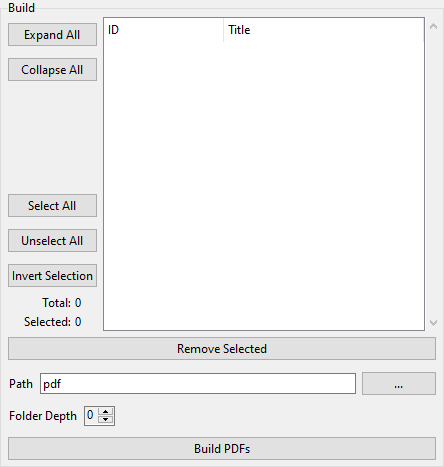
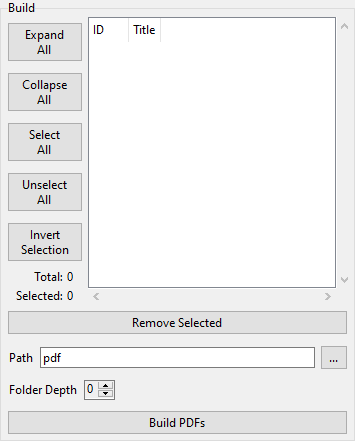
Line wrap GUI test list button text to reduce window width.

diff --git a/atform/gui/testlist.py b/atform/gui/testlist.py
@@ -307,20 +307,20 @@ class ControlPanel(tkwidget.Frame):  # pylint: disable=too-many-ancestors
         super().__init__(testlist)
         self.testlist = testlist
 
-        self._add_button("Expand All", tk.TOP)
-        self._add_button("Collapse All", tk.TOP)
+        self._add_button("Expand\nAll", tk.TOP)
+        self._add_button("Collapse\nAll", tk.TOP)
 
         self.counts = Counts(self, testlist)
         self.counts.pack(side=tk.BOTTOM)
 
-        self._add_button("Invert Selection", tk.BOTTOM)
-        self._add_button("Unselect All", tk.BOTTOM)
-        self._add_button("Select All", tk.BOTTOM)
+        self._add_button("Invert\nSelection", tk.BOTTOM)
+        self._add_button("Unselect\nAll", tk.BOTTOM)
+        self._add_button("Select\nAll", tk.BOTTOM)
 
     def _add_button(self, text, side):
         """Creates a single button."""
         # Convert the button text to snake case to match a method name.
-        snake = text.lower().replace(" ", "_")
+        snake = text.lower().replace("\n", "_")
         func = getattr(self, f"_on_{snake}")
 
         btn = tkwidget.Button(

diff --git a/atform/gui/app.py b/atform/gui/app.py
@@ -1,6 +1,7 @@
 """This module contains the entry point for the GUI and top-level window."""
 
 import tkinter as tk
+from tkinter import ttk
 
 from . import buildlist
 from . import common
@@ -17,7 +18,16 @@ from . import tkwidget
 def run(path, folder_depth):
     """Launches the GUI."""
     app = Application(path, folder_depth)
+    config_style()
     app.mainloop()
+
+
+def config_style():
+    """Applies ttk style modifications."""
+    style = ttk.Style()
+
+    # For buttons with multi-line text.
+    style.configure("TButton", justify=tk.CENTER)
 
 
 class Application(tkwidget.Tk):
